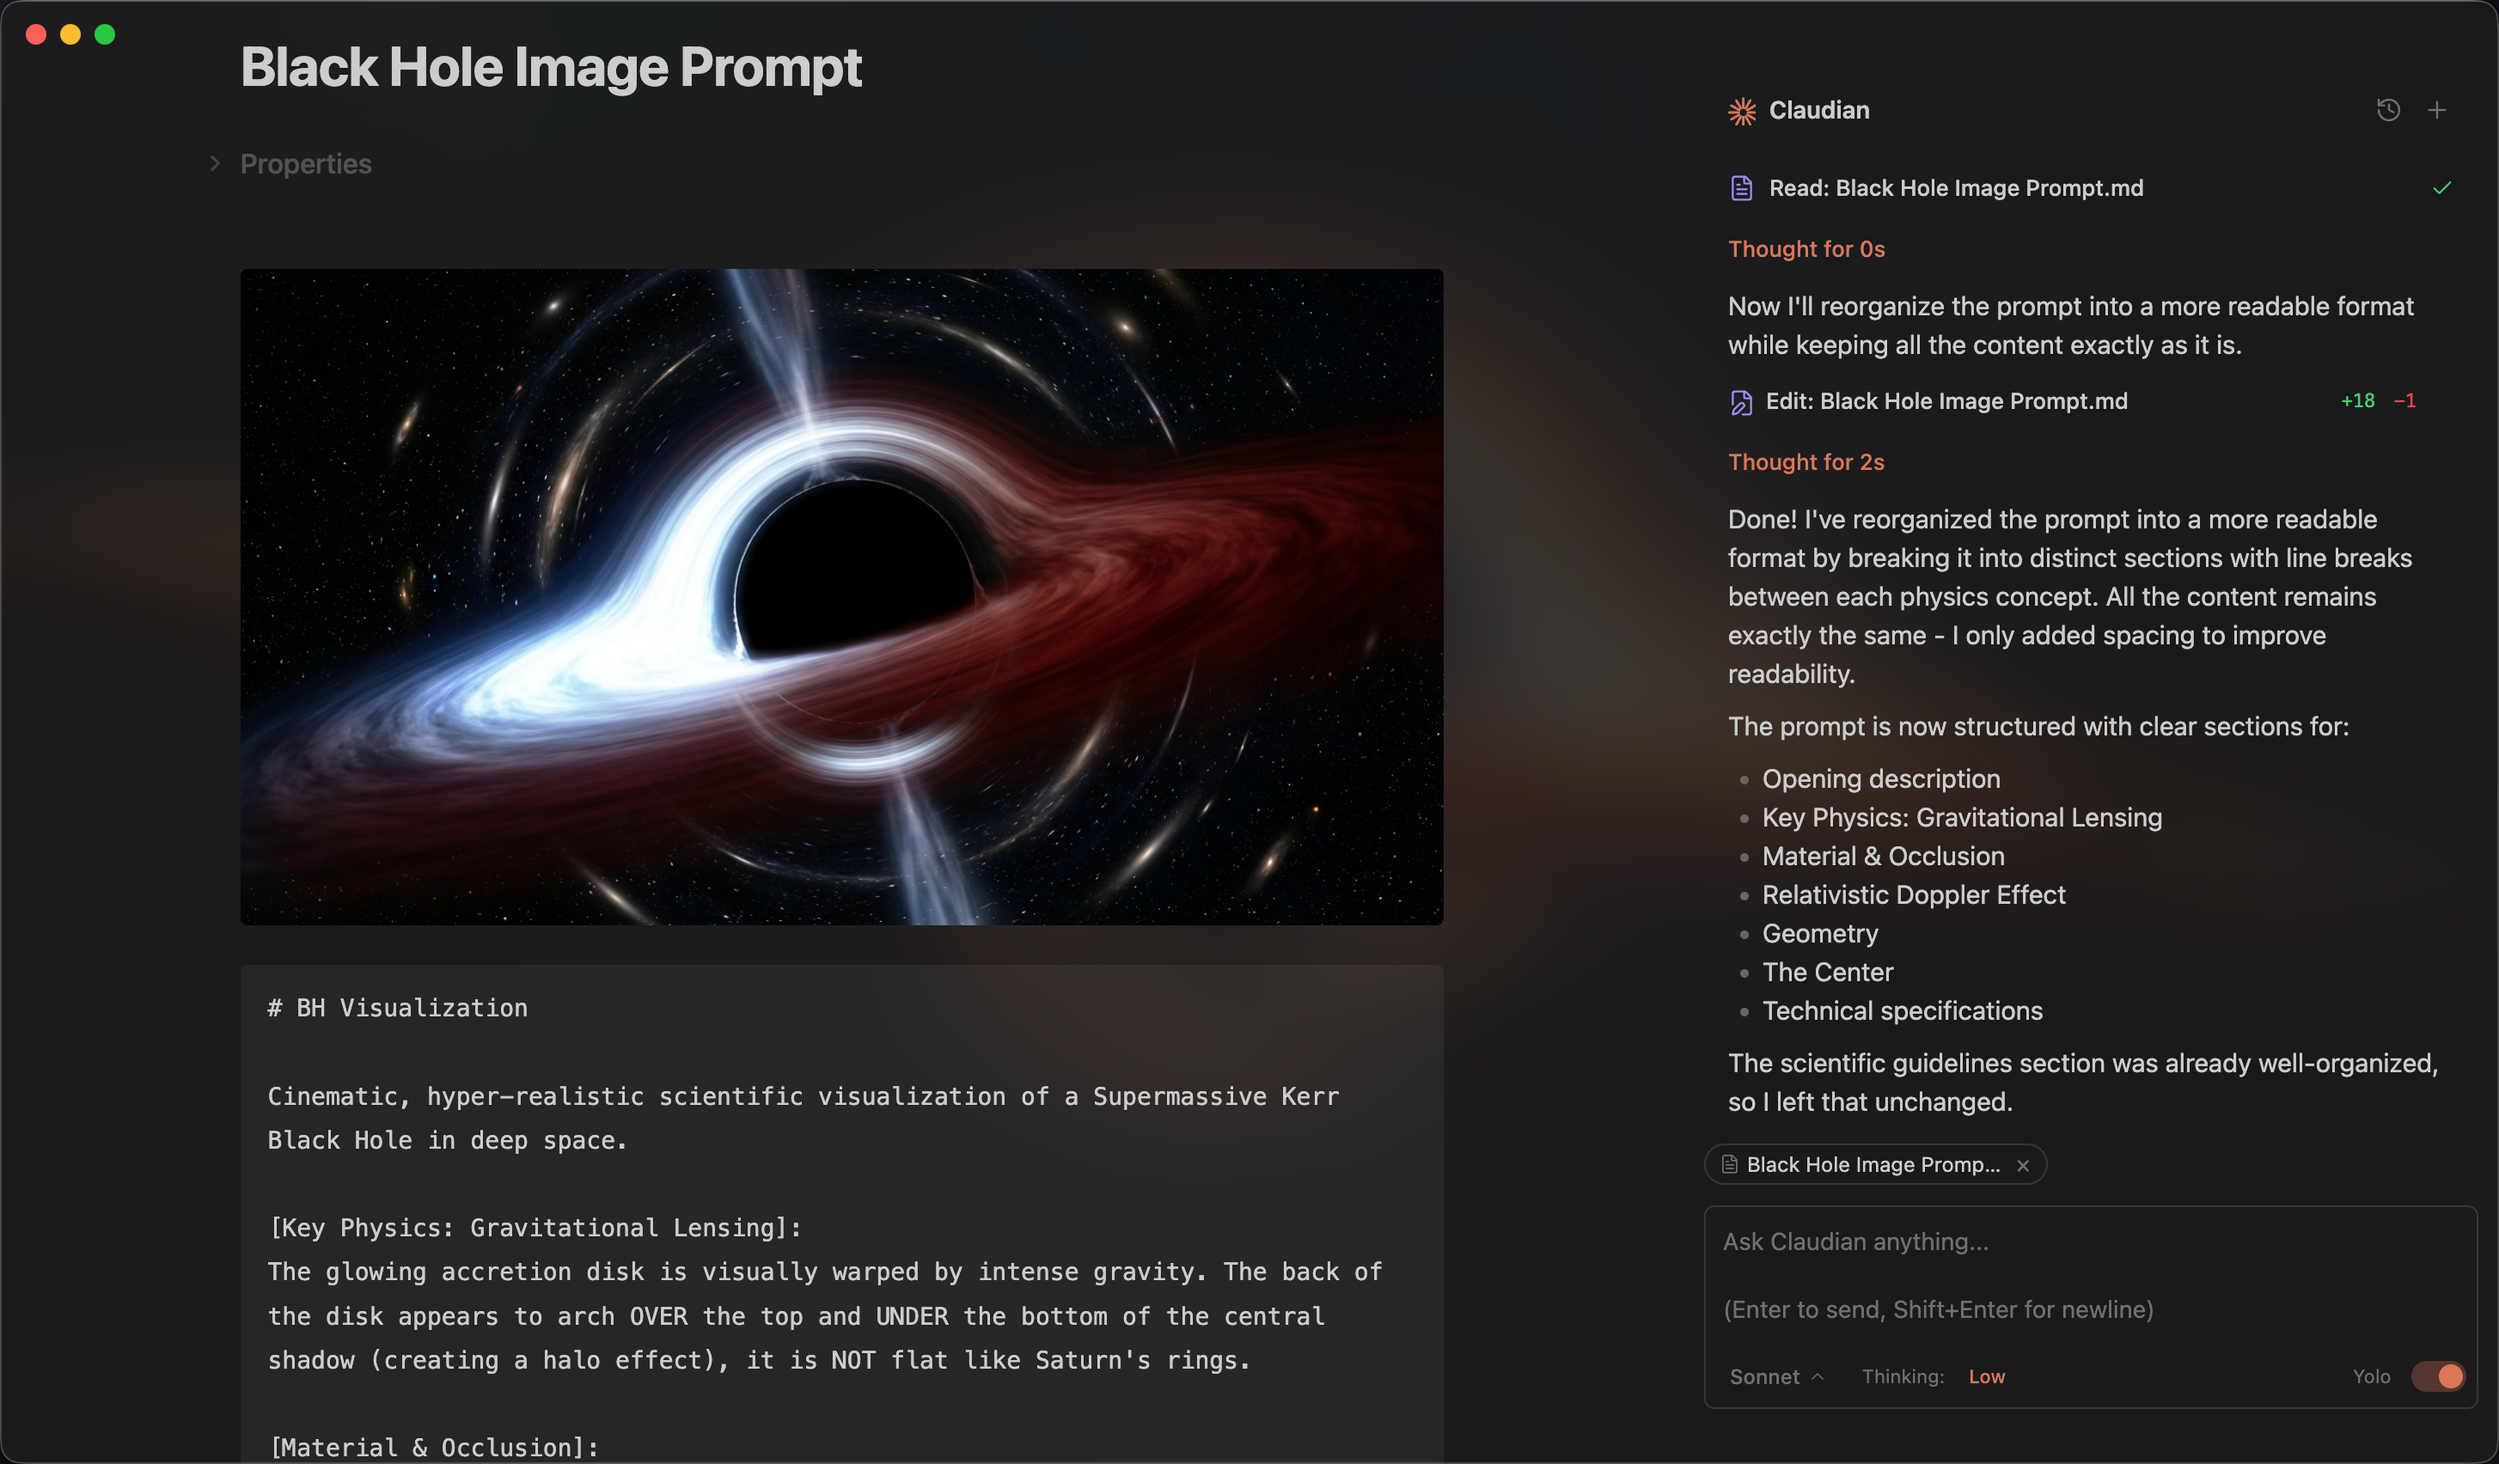
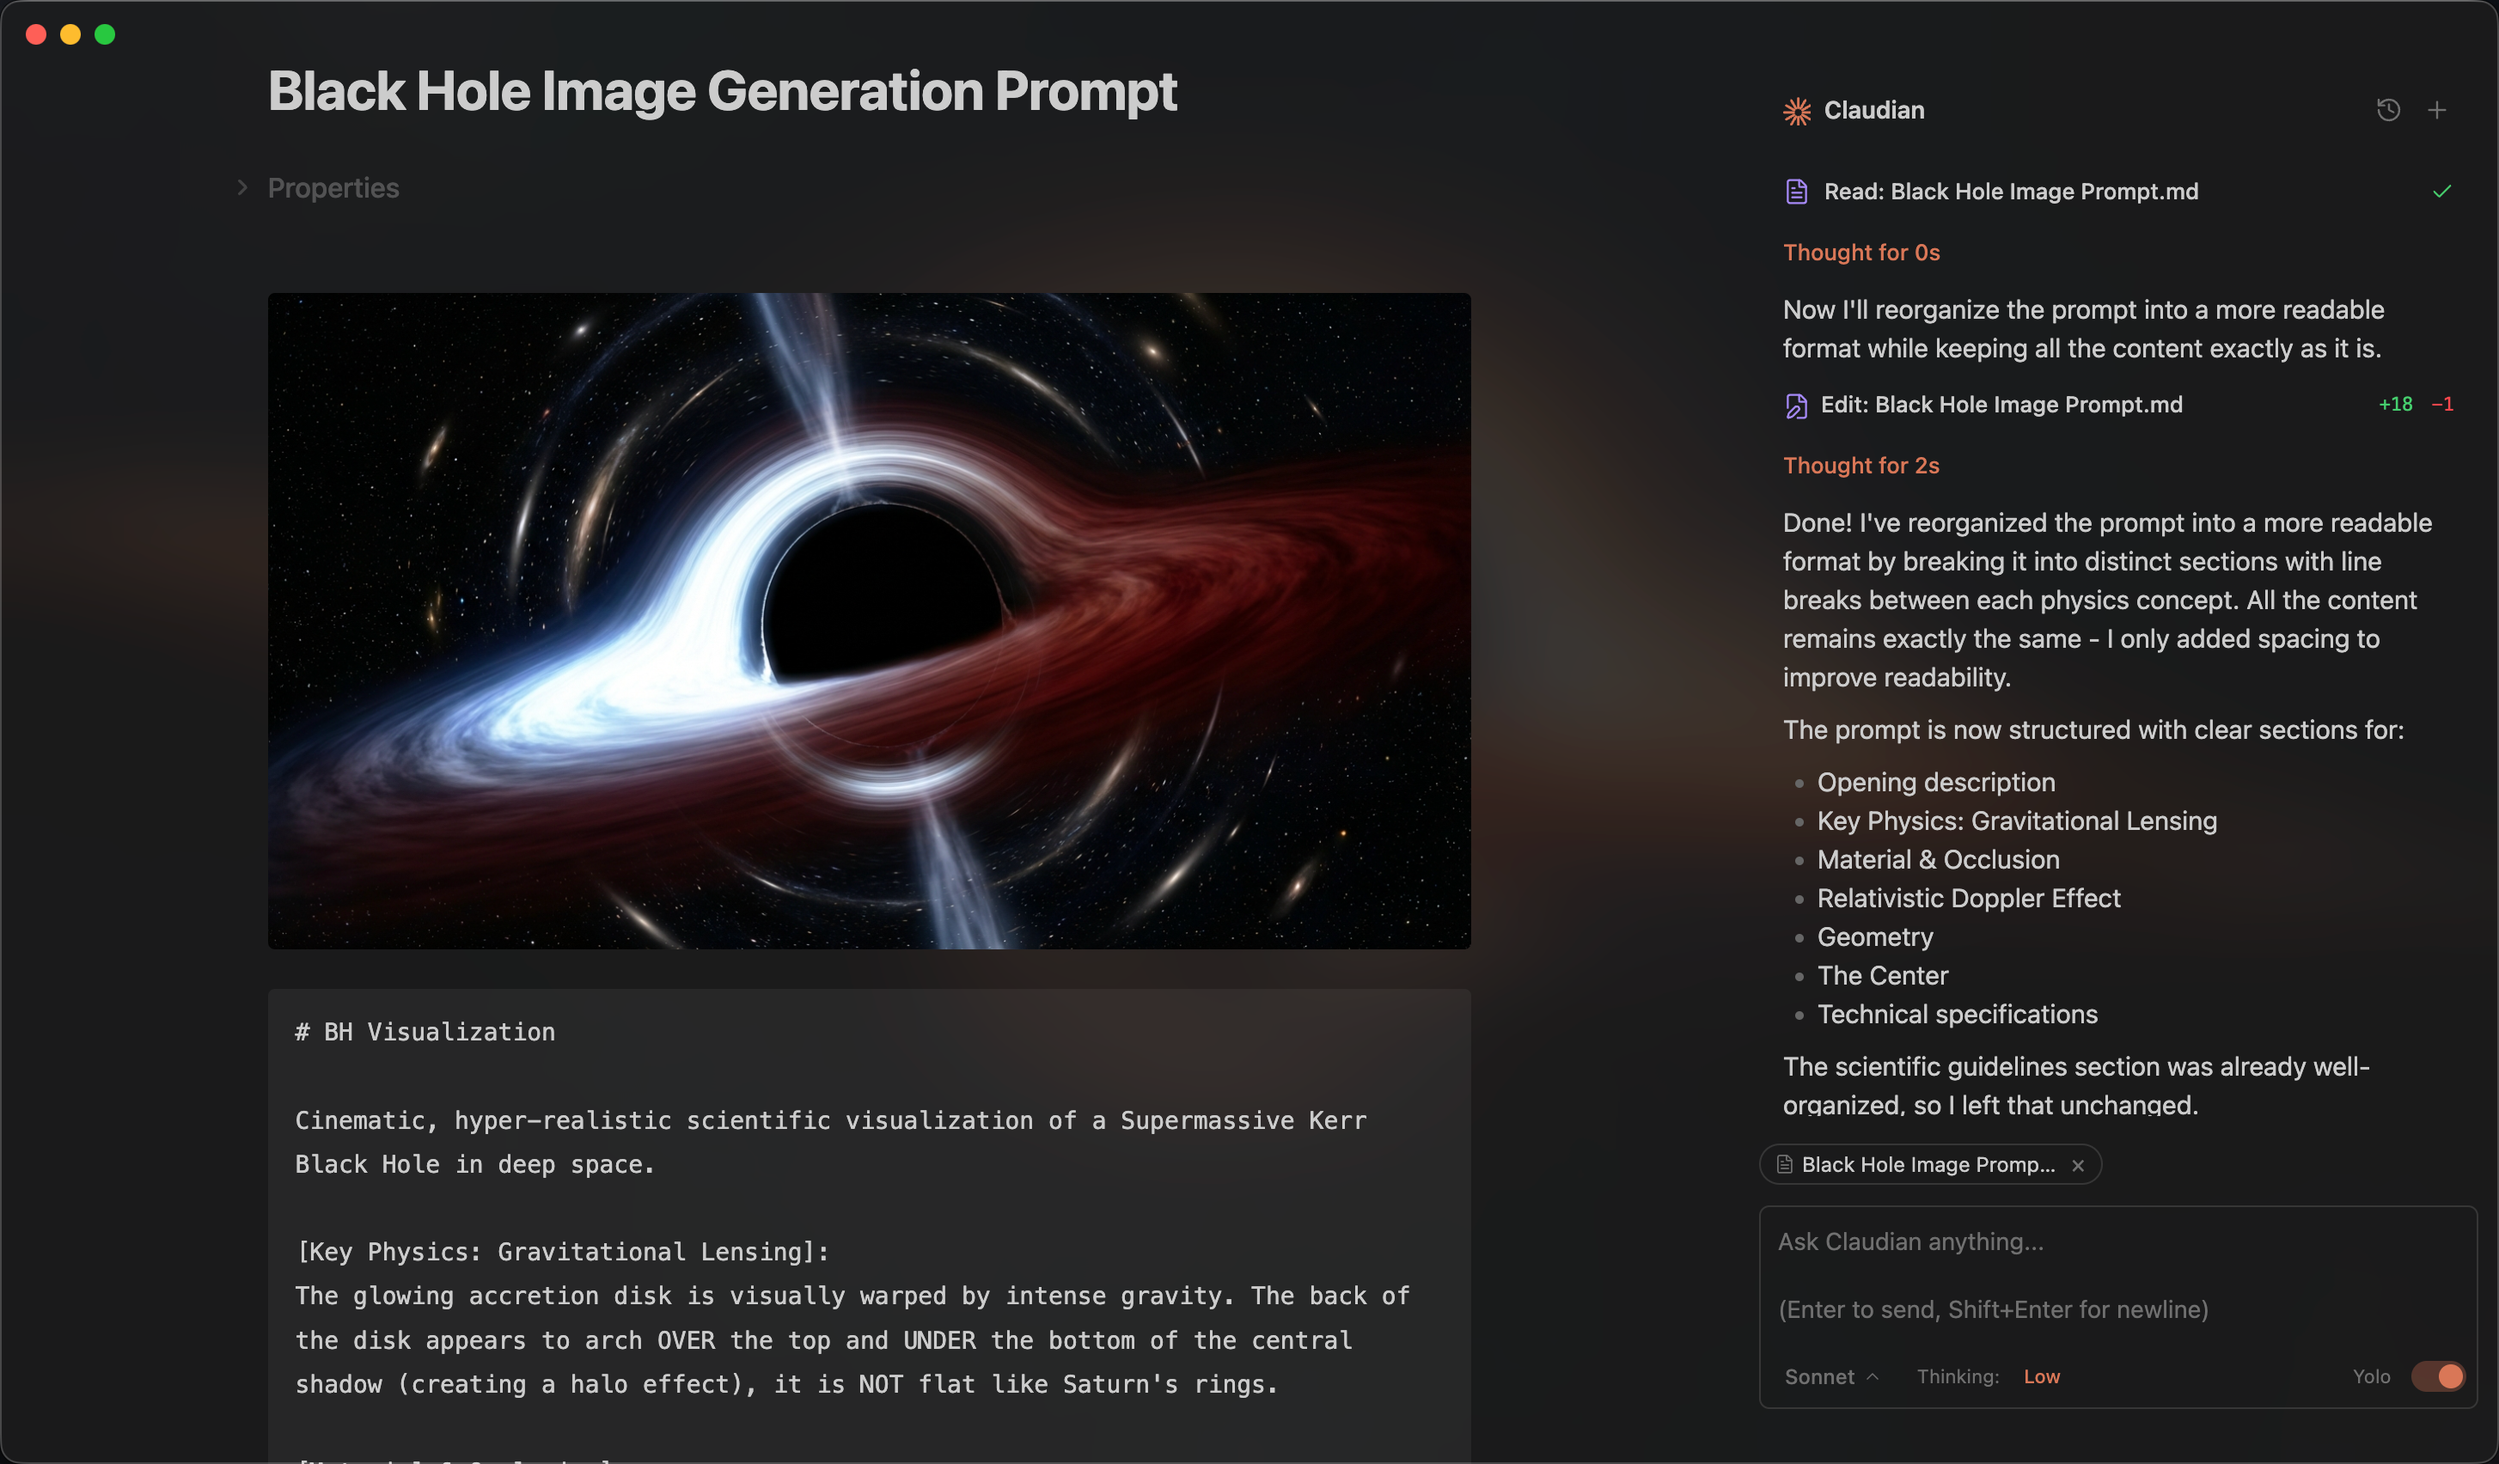
feat: Add setting to control default expansion state for streaming tool calls

diff --git a/src/ui/ToolCallRenderer.ts b/src/ui/ToolCallRenderer.ts
@@ -191,23 +191,25 @@ export function isBlockedToolResult(content: string, isError?: boolean): boolean
   return false;
 }
 
-/** Renders a tool call UI element (for streaming). Expanded by default. */
+/** Renders a tool call UI element (for streaming). Expanded by default unless overridden. */
 export function renderToolCall(
   parentEl: HTMLElement,
   toolCall: ToolCallInfo,
-  toolCallElements: Map<string, HTMLElement>
+  toolCallElements: Map<string, HTMLElement>,
+  expandedByDefault = true
 ): HTMLElement {
-  const toolEl = parentEl.createDiv({ cls: 'claudian-tool-call expanded' });
+  const isExpanded = expandedByDefault;
+  const toolEl = parentEl.createDiv({ cls: `claudian-tool-call${isExpanded ? ' expanded' : ''}` });
   toolEl.dataset.toolId = toolCall.id;
   toolCallElements.set(toolCall.id, toolEl);
-  toolCall.isExpanded = true;
+  toolCall.isExpanded = isExpanded;
 
   // Header (clickable to expand/collapse)
   const header = toolEl.createDiv({ cls: 'claudian-tool-header' });
   header.setAttribute('tabindex', '0');
   header.setAttribute('role', 'button');
-  header.setAttribute('aria-expanded', 'true');
-  header.setAttribute('aria-label', `${getToolLabel(toolCall.name, toolCall.input)} - click to collapse`);
+  header.setAttribute('aria-expanded', isExpanded ? 'true' : 'false');
+  header.setAttribute('aria-label', `${getToolLabel(toolCall.name, toolCall.input)} - click to ${isExpanded ? 'collapse' : 'expand'}`);
 
   // Tool icon (decorative)
   const iconEl = header.createSpan({ cls: 'claudian-tool-icon' });
@@ -226,8 +228,11 @@ export function renderToolCall(
     statusEl.createSpan({ cls: 'claudian-spinner' });
   }
 
-  // Collapsible content (expanded by default)
+  // Collapsible content
   const content = toolEl.createDiv({ cls: 'claudian-tool-content' });
+  if (!isExpanded) {
+    content.style.display = 'none';
+  }
 
   // Tree-branch result row
   const resultRow = content.createDiv({ cls: 'claudian-tool-result-row' });
@@ -304,16 +309,20 @@ export function updateToolCallResult(
   }
 }
 
-/** Render a stored tool call (non-streaming). Collapsed by default. */
-export function renderStoredToolCall(parentEl: HTMLElement, toolCall: ToolCallInfo): HTMLElement {
-  const toolEl = parentEl.createDiv({ cls: 'claudian-tool-call' });
+/** Render a stored tool call (non-streaming). Collapsed by default unless overridden. */
+export function renderStoredToolCall(
+  parentEl: HTMLElement,
+  toolCall: ToolCallInfo,
+  expandedByDefault = false
+): HTMLElement {
+  const toolEl = parentEl.createDiv({ cls: `claudian-tool-call${expandedByDefault ? ' expanded' : ''}` });
 
   // Header
   const header = toolEl.createDiv({ cls: 'claudian-tool-header' });
   header.setAttribute('tabindex', '0');
   header.setAttribute('role', 'button');
-  header.setAttribute('aria-expanded', 'false');
-  header.setAttribute('aria-label', `${getToolLabel(toolCall.name, toolCall.input)} - click to expand`);
+  header.setAttribute('aria-expanded', expandedByDefault ? 'true' : 'false');
+  header.setAttribute('aria-label', `${getToolLabel(toolCall.name, toolCall.input)} - click to ${expandedByDefault ? 'collapse' : 'expand'}`);
 
   // Tool icon (decorative)
   const iconEl = header.createSpan({ cls: 'claudian-tool-icon' });
@@ -336,9 +345,11 @@ export function renderStoredToolCall(parentEl: HTMLElement, toolCall: ToolCallIn
     setIcon(statusEl, 'shield-off');
   }
 
-  // Collapsible content (collapsed by default for stored)
+  // Collapsible content
   const content = toolEl.createDiv({ cls: 'claudian-tool-content' });
-  content.style.display = 'none';
+  if (!expandedByDefault) {
+    content.style.display = 'none';
+  }
 
   // Tree-branch result row
   const resultRow = content.createDiv({ cls: 'claudian-tool-result-row' });
@@ -361,7 +372,7 @@ export function renderStoredToolCall(parentEl: HTMLElement, toolCall: ToolCallIn
   }
 
   // Toggle expand/collapse handler
-  let isExpanded = false;
+  let isExpanded = expandedByDefault;
   const toggleExpand = () => {
     isExpanded = !isExpanded;
     if (isExpanded) {

diff --git a/tests/types.test.ts b/tests/types.test.ts
@@ -63,6 +63,10 @@ describe('types.ts', () => {
     it('should have lastCustomModel as empty string by default', () => {
       expect(DEFAULT_SETTINGS.lastCustomModel).toBe('');
     });
+
+    it('should have toolCallExpandedByDefault set to false by default', () => {
+      expect(DEFAULT_SETTINGS.toolCallExpandedByDefault).toBe(false);
+    });
   });
 
   describe('ClaudianSettings type', () => {
@@ -71,13 +75,16 @@ describe('types.ts', () => {
         enableBlocklist: false,
         blockedCommands: ['test'],
         showToolUse: false,
+        toolCallExpandedByDefault: true,
         model: 'claude-haiku-4-5',
         thinkingBudget: 'off',
         permissionMode: 'yolo',
         approvedActions: [],
         excludedTags: [],
+        mediaFolder: '',
         environmentVariables: '',
         envSnippets: [],
+        systemPrompt: '',
       };
 
       expect(settings.enableBlocklist).toBe(false);
@@ -91,13 +98,16 @@ describe('types.ts', () => {
         enableBlocklist: true,
         blockedCommands: [],
         showToolUse: true,
+        toolCallExpandedByDefault: true,
         model: 'anthropic/custom-model-v1',
         thinkingBudget: 'medium',
         permissionMode: 'normal',
         approvedActions: [],
         excludedTags: ['private'],
+        mediaFolder: 'attachments',
         environmentVariables: 'API_KEY=test',
         envSnippets: [],
+        systemPrompt: '',
       };
 
       expect(settings.model).toBe('anthropic/custom-model-v1');
@@ -108,6 +118,7 @@ describe('types.ts', () => {
         enableBlocklist: true,
         blockedCommands: [],
         showToolUse: true,
+        toolCallExpandedByDefault: false,
         model: 'claude-sonnet-4-5',
         lastClaudeModel: 'claude-opus-4-5',
         lastCustomModel: 'custom/model',
@@ -115,8 +126,10 @@ describe('types.ts', () => {
         permissionMode: 'yolo',
         approvedActions: [],
         excludedTags: [],
+        mediaFolder: '',
         environmentVariables: '',
         envSnippets: [],
+        systemPrompt: '',
       };
 
       expect(settings.lastClaudeModel).toBe('claude-opus-4-5');

diff --git a/src/ClaudianView.ts b/src/ClaudianView.ts
@@ -500,14 +500,14 @@ export class ClaudianView extends ItemView {
               todoEl.dataset.toolId = chunk.id;
               this.toolCallElements.set(chunk.id, todoEl);
             } else {
-              renderToolCall(this.currentContentEl!, toolCall, this.toolCallElements);
+              renderToolCall(this.currentContentEl!, toolCall, this.toolCallElements, this.plugin.settings.toolCallExpandedByDefault);
             }
           } else if (chunk.name === 'Write' || chunk.name === 'Edit') {
             const state = createWriteEditBlock(this.currentContentEl!, toolCall);
             this.writeEditStates.set(chunk.id, state);
             this.toolCallElements.set(chunk.id, state.wrapperEl);
           } else {
-            renderToolCall(this.currentContentEl!, toolCall, this.toolCallElements);
+            renderToolCall(this.currentContentEl!, toolCall, this.toolCallElements, this.plugin.settings.toolCallExpandedByDefault);
           }
         }
         break;

diff --git a/src/ClaudianSettings.ts b/src/ClaudianSettings.ts
@@ -81,6 +81,18 @@ export class ClaudianSettingTab extends PluginSettingTab {
       );
 
     new Setting(containerEl)
+      .setName('Expand tool calls during streaming')
+      .setDesc('When enabled, tool call blocks start expanded during streaming. History tool calls remain collapsed.')
+      .addToggle((toggle) =>
+        toggle
+          .setValue(this.plugin.settings.toolCallExpandedByDefault)
+          .onChange(async (value) => {
+            this.plugin.settings.toolCallExpandedByDefault = value;
+            await this.plugin.saveSettings();
+          })
+      );
+
+    new Setting(containerEl)
       .setName('Excluded tags')
       .setDesc('Notes with these tags will not auto-load as context (one per line, without #)')
       .addTextArea((text) => {

diff --git a/src/types.ts b/src/types.ts
@@ -50,6 +50,7 @@ export interface ClaudianSettings {
   enableBlocklist: boolean;
   blockedCommands: string[];
   showToolUse: boolean;
+  toolCallExpandedByDefault: boolean;
   model: ClaudeModel;
   lastClaudeModel?: ClaudeModel;
   lastCustomModel?: ClaudeModel;
@@ -80,6 +81,7 @@ export const DEFAULT_SETTINGS: ClaudianSettings = {
     'chmod -R 777',
   ],
   showToolUse: true,
+  toolCallExpandedByDefault: false,
   model: 'claude-haiku-4-5',
   lastClaudeModel: 'claude-haiku-4-5',
   lastCustomModel: '',

diff --git a/styles.css b/styles.css
@@ -2329,6 +2329,11 @@
   flex-shrink: 0;
 }
 
+/* Hide empty status on successful completion so stats align to right edge */
+.claudian-write-edit-block.done .claudian-write-edit-status:empty {
+  display: none;
+}
+
 .claudian-write-edit-status svg {
   width: 16px;
   height: 16px;

diff --git a/README.md b/README.md
@@ -58,7 +58,7 @@ npm run build
 ## Usage
 
 **Two modes:**
-1. Click the bot icon in the ribbon or CMD+P to open Claudian on sidebar
+1. Click the bot icon in ribbon or launch Claudian in palette
 2. Select text in any note and press hotkey to open inline edit
 
 Use it like Claude Code, ask it to read, write, edit, search, etc. to help you with your notes.
